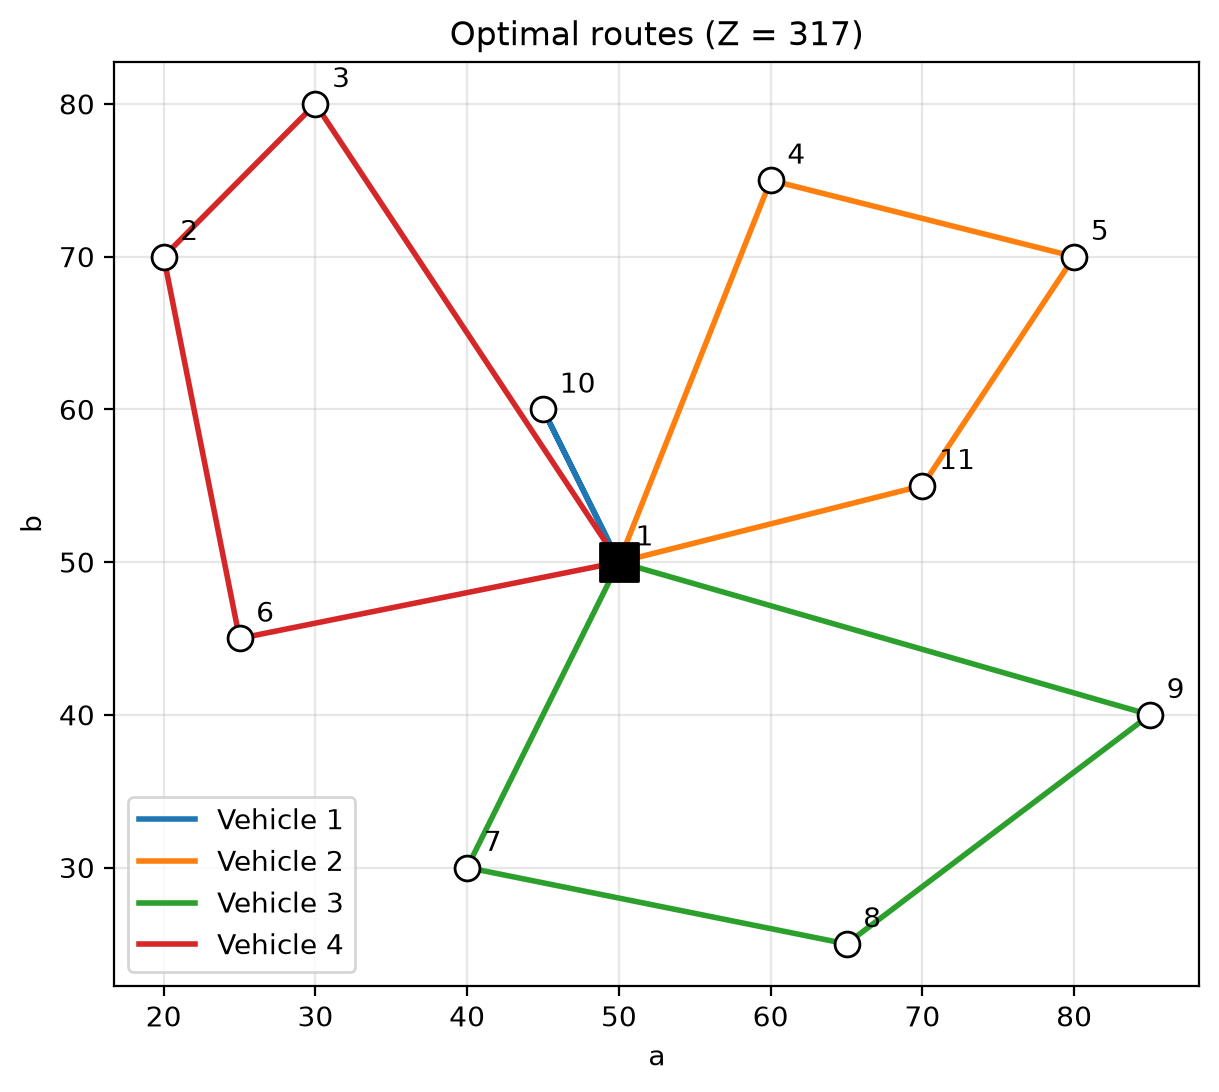
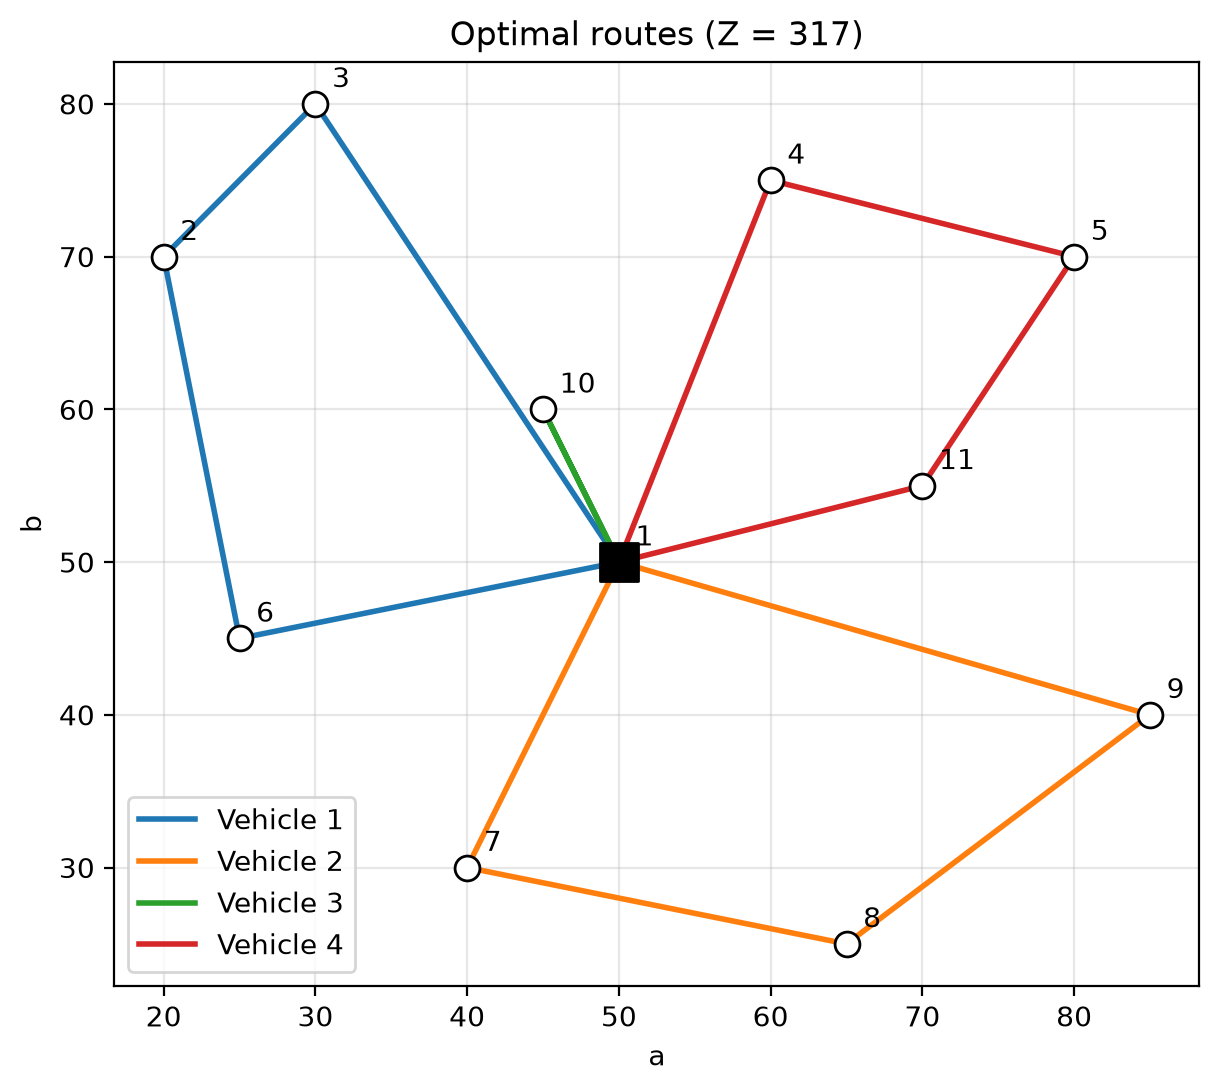
Calculate min K

diff --git a/entregable1.py b/entregable1.py
@@ -1,6 +1,7 @@
 import pulp as plp
 import math
 import itertools
+import time
 from pathlib import Path
 
 import matplotlib
@@ -40,70 +41,70 @@ model = plp.LpProblem("CVRP_10", plp.LpMinimize)
 # 2. Parameters and variables
 N = sorted(coords)                          # nodes (1 = depot)
 C = [i for i in N if i != 1]                # customers
-K = list(range(1, len(C) + 1))              # vehicles: at most one per customer
-A = list(itertools.permutations(N, 2))      # edges
+A = list(itertools.permutations(N, 2))      # arcs
 
-# Euclidean distance (eq. 1)
+# (1) Euclidean distance rounded to nearest integer
 d = {(i, j): math.floor(math.dist(coords[i], coords[j]) + 0.5) for (i, j) in A}
 
-x = plp.LpVariable.dicts("x", [(i, j, k) for (i, j) in A for k in K], cat="Binary")
+# Minimum number of vehicles
+K_min = math.ceil(sum(q[i] for i in C) / Q)
+
+# (2), (11) Binary routing variables
+x = plp.LpVariable.dicts("x", A, cat="Binary")
+# (3) Accumulated load when leaving customer i
 u = plp.LpVariable.dicts("u", C, lowBound=0, upBound=Q)
 
-# 3. Objective function (eq. 4)
-model += plp.lpSum(d[i, j] * x[i, j, k] for k in K for (i, j) in A), "Objective_Function"
+# 3. Objective function
+# (4) Minimize total distance
+model += plp.lpSum(d[a] * x[a] for a in A), "Objective_Function"
 
 # 4. Constraints
-# (5) Each customer has exactly one predecessor
+# (5), (6) Each customer has exactly one predecessor and one successor
 for j in C:
-    model += plp.lpSum(x[i, j, k] for k in K for i in N if i != j) == 1, f"Pred_{j}"
+    model += plp.lpSum(x[i, j] for i in N if i != j) == 1, f"In_{j}"
+    model += plp.lpSum(x[j, i] for i in N if i != j) == 1, f"Out_{j}"
 
-# (6) Flow conservation: what enters h must leave h
-for h in N:
-    for k in K:
-        model += (plp.lpSum(x[i, h, k] for i in N if i != h)
-                  - plp.lpSum(x[h, j, k] for j in N if j != h) == 0), f"Flow_{h}_{k}"
+# (6) Depot: as many vehicles leave as return
+model += (plp.lpSum(x[1, j] for j in C) == plp.lpSum(x[j, 1] for j in C)), "Depot_Flow"
 
-# (7) Each vehicle leaves the depot at most once
-for k in K:
-    model += plp.lpSum(x[1, j, k] for j in C) <= 1, f"Departure_{k}"
+# (7) At least K_min vehicles leave the depot
+model += plp.lpSum(x[1, j] for j in C) >= K_min, "Min_Vehicles"
 
-# Symmetry breaking: vehicle k is used only if vehicle k-1 is used
-for k in K[1:]:
-    model += plp.lpSum(x[1, j, k] for j in C) <= plp.lpSum(x[1, j, k - 1] for j in C), f"Sym_{k}"
-
-# (8) Capacity per vehicle
-for k in K:
-    model += plp.lpSum(q[j] * x[i, j, k] for i in N for j in C if i != j) <= Q, f"Cap_{k}"
-
-# (9) MTZ: subtour elimination
+# (8), (9) Lifted MTZ (Desrochers-Laporte)
 for i in C:
     for j in C:
         if i != j:
-            model += (u[j] >= u[i] + q[j] - Q * (1 - plp.lpSum(x[i, j, k] for k in K))), f"MTZ_{i}_{j}"
+            model += (u[j] >= u[i] + q[j] - Q * (1 - x[i, j])
+                      + (Q - q[i] - q[j]) * x[j, i]), f"MTZ_{i}_{j}"
 
 # (10) Bounds on accumulated load
 for i in C:
     model += u[i] >= q[i], f"u_min_{i}"
 
 # 5. Solve
+start = time.time()
 model.solve(plp.PULP_CBC_CMD(msg=False))
+elapsed = time.time() - start
 
 # 6. Results
 print(f"Status: {plp.LpStatus[model.status]}")
 print(f"Minimum distance Z = {plp.value(model.objective)}")
+print(f"Solve time: {elapsed:.2f} s")
+
+succ = {i: j for (i, j) in A if i != 1 and x[i, j].varValue > 0.5}
+starts = [j for j in C if x[1, j].varValue > 0.5]
+
 routes = {}
-for k in K:
-    nxt = {i: j for (i, j) in A if x[i, j, k].varValue > 0.5}
-    if 1 not in nxt:
-        continue
-    route, node = [1], nxt[1]
-    while node != 1:
+for k, first in enumerate(starts, 1):
+    route, node = [1, first], first
+    while succ[node] != 1:
+        node = succ[node]
         route.append(node)
-        node = nxt[node]
     route.append(1)
     routes[k] = route
-    load = sum(q[i] for i in route)
-    print(f"Vehicle {k}: {' -> '.join(map(str, route))}  (load {load}/{Q})")
+    load = sum(q[i] for i in route if i != 1)
+    dist = sum(d[route[t], route[t + 1]] for t in range(len(route) - 1))
+    print(f"Vehicle {k}: {' -> '.join(map(str, route))}  (load {load}/{Q}, distance {dist})")
 
 
 # 7. Plots

diff --git a/README.md b/README.md
@@ -5,22 +5,6 @@ capacity 50 using a Mixed-Integer Linear Programming model solved with PuLP + CB
 
 The full explanation of the mathematical model is in [`main.pdf`](main.pdf). The comments in `entregable1.py` reference the same equation numbers.
 
-## Model summary
-
-See `main.pdf` for the detailed derivation. In short:
-
-- **Sets:** nodes `N` (node 1 is the depot), customers `C = N \ {1}`, vehicles `K = {1, 2, 3}`, arcs `A = {(i, j) : i ≠ j}`.
-- **Parameters:** rounded Euclidean distance `d_ij` (eq. 1), demand `q_i`, capacity `Q = 50`.
-- **Variables:** `x_ijk ∈ {0,1}` (vehicle `k` travels arc `i → j`), `u_i ∈ [0, Q]` (load accumulated on arrival at `i`).
-- **Objective (eq. 4):** minimize total distance `Σ_k Σ_(i,j) d_ij · x_ijk`.
-- **Constraints:**
-  - (5) every customer is visited exactly once;
-  - (6) flow conservation per node and vehicle;
-  - (7) each vehicle leaves the depot at most once;
-  - (8) vehicle capacity;
-  - (9) MTZ subtour elimination;
-  - (10) lower bounds on accumulated load.
-
 ## How to run
 
 ```bash
